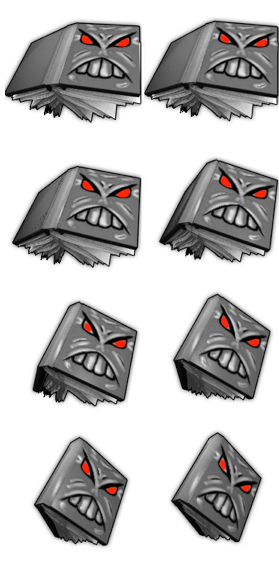
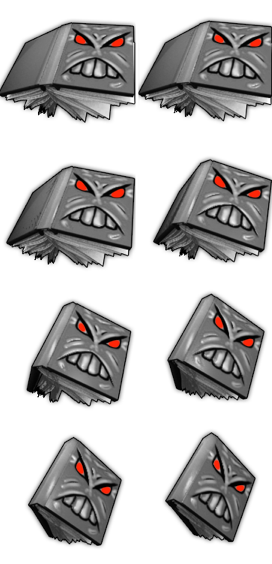
book2 추가, 1보다 더 크고 빠르게 낙하, 젠 시간도 더 오래걸림, 다른 이미지 사용

diff --git a/기말 프로젝트/book.py b/기말 프로젝트/book.py
@@ -2,42 +2,41 @@ from pico2d import *
 import gfw
 import gfw_world
 import gfw_image
-import main_state
 
 
 class Book:
     SIZE = 141
-    image = None
 
-    def __init__(self, x, speed):
+    def __init__(self, x, speed, type):
         self.x, self.y = x, get_canvas_height() + Book.SIZE
         self.dx, self.dy = 0, speed
-        if Book.image == None:
-            Book.image = gfw_image.load('res/book1.png')
+        self.type = type
+        self.image = gfw_image.load('res/book%d.png' % type)
         self.fidx = 0
         self.b_width = self.image.w // 2
         self.b_height = self.image.h // 4
         self.time = 0
-        self.size1 = 70
+        if self.type == 1:
+            self.size = 70
+            self.s = 7
+        if self.type == 2:
+            self.size = 100
+            self.s = 15
 
     def draw(self):
         sx = self.b_width - (self.fidx % 2) * self.b_width
         sy = (self.fidx // 2) * self.b_height
-        self.image.clip_draw(sx, sy, self.b_width, self.b_height, self.x, self.y, self.size1, self.size1)
+        self.image.clip_draw(sx, sy, self.b_width, self.b_height, self.x, self.y, self.size, self.size)
 
     def update(self):
         self.time += gfw.delta_time
         self.fidx = int(self.time * 12) % 8
         self.y += self.dy * gfw.delta_time
 
-        if self.y < -Book.SIZE:
-            self.remove()
-            main_state.score.score += 5
-
     def remove(self):
         gfw_world.remove(self)
 
     def get_bb(self):
-        halfw = self.size1 // 2
-        halfh = self.size1 // 2 - 7
-        return self.x - halfw + 5, self.y - halfh, self.x + halfw, self.y + halfh
+        halfw = self.size // 2
+        halfh = self.size // 2 - self.s
+        return self.x - halfw + self.s, self.y - halfh, self.x + halfw, self.y + halfh

diff --git a/기말 프로젝트/book_gen.py b/기말 프로젝트/book_gen.py
@@ -3,25 +3,35 @@ import gfw
 import gfw_world
 from book import Book
 
-next_wave = 0
-p_time = 0
+next_gen_small = 0
+next_gen_big = 5
 
 
 def update(t):
-    global next_wave, p_time
-    next_wave -= gfw.delta_time
-    if next_wave < 0:
-        generate_wave(t)
-    p_time = t  # playtime
+    global next_gen_small, next_gen_big
+    next_gen_small -= gfw.delta_time
+    next_gen_big -= gfw.delta_time
+    if next_gen_small < 0:
+        gen_small(t)
+    if next_gen_big < 0:
+        gen_big(t)
 
 
-def generate_wave(t):
-    global b_index, next_wave
+def gen_small(t):
+    global next_gen_small
     x = random.randint(0, 800)
-
-    speed = -(120 + 30 * (t // 10))  # 10초마다 낙하 속도 30씩 증가
+    speed = -120
+    # speed = -(120 + 30 * (t // 10))  # 10초마다 낙하 속도 30씩 증가
     # speed = - 1000
-    b = Book(x, speed)
+    b = Book(x, speed, 1)
     gfw_world.add(gfw_world.layer.book, b)
+    next_gen_small = random.uniform(1, 2)
 
-    next_wave = random.uniform(1, 2)
+
+def gen_big(t):
+    global next_gen_big
+    x = random.randint(0, 800)
+    speed = -150
+    b = Book(x, speed, 2)
+    gfw_world.add(gfw_world.layer.book, b)
+    next_gen_big = random.uniform(5, 6)

diff --git a/기말 프로젝트/main_state.py b/기말 프로젝트/main_state.py
@@ -42,19 +42,23 @@ def playtime():     # main_state 가 실행된 총 시간을 반환
 
 def check_book(b):
     if gobj.collides_box(student, b):
-        print('collide')
+        # print('collide')
         student.decrease_life()
         if student.life == 0:
             gfw.quit()
         score.score += 5
         b.remove()
         return
+    if b.y < -b.SIZE:
+        b.remove()
+        score.score += 5
 
 
 def draw():
     gfw_world.draw()
     font.draw(get_canvas_width() - 250, get_canvas_height() - 40, 'STAGE - %d학년' % 1)
-    gobj.draw_collision_box()
+    # gobj.draw_collision_box()
+    font.draw(get_canvas_width() - 550, get_canvas_height() - 40, 'time %d' % playtime())
 
 
 def handle_event(e):
